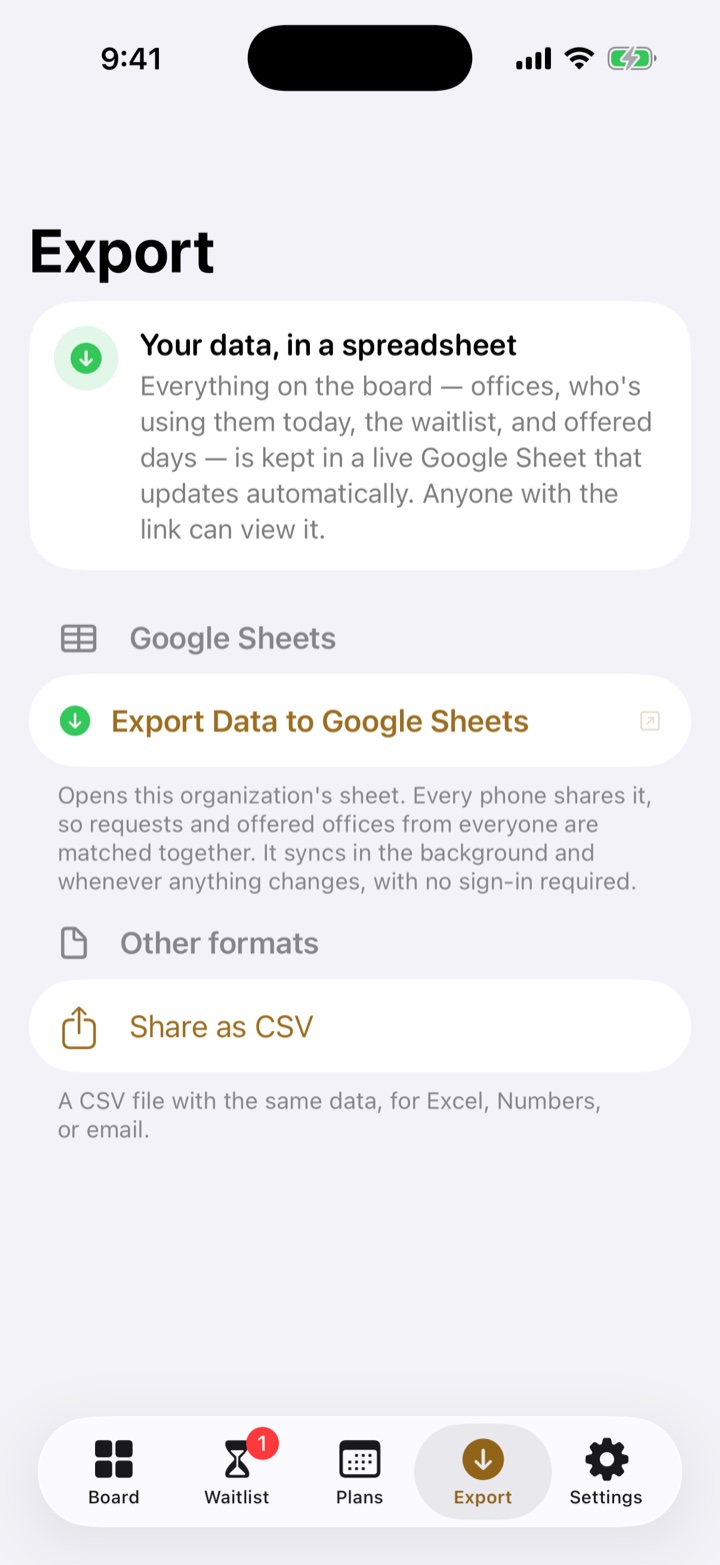
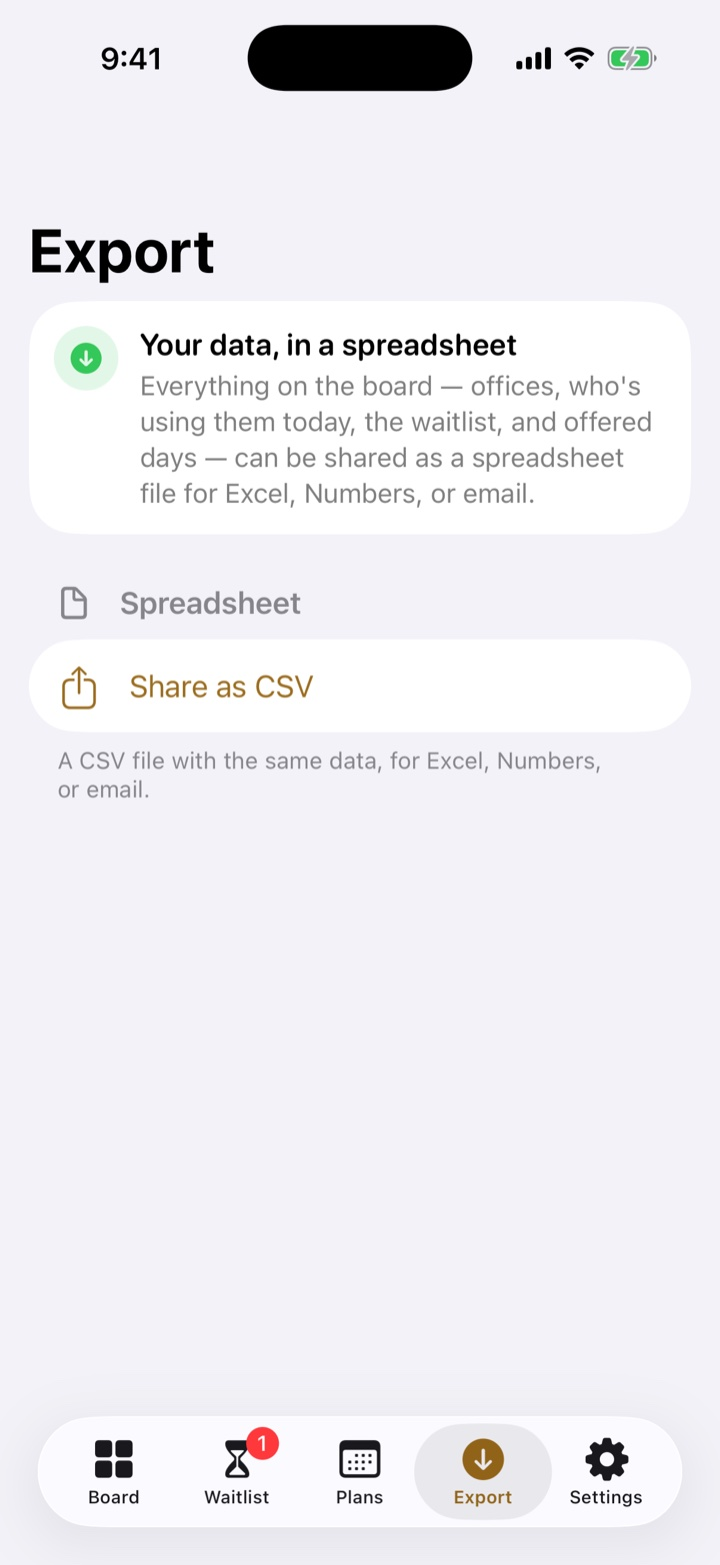
Describe Firebase sync: instant updates, access-code privacy, CSV export

diff --git a/index.html b/index.html
@@ -63,7 +63,7 @@
 </section>
 
 <section class="activity" aria-label="Things OfficeSwap takes care of">
-  <div class="lane " aria-hidden="true"><div class="chip"><div class="ic green"><svg viewBox="0 0 24 24" fill="none" stroke="currentColor" stroke-width="1.9" stroke-linecap="round" stroke-linejoin="round"><path d="M5 12.5l4.2 4.2L19 7"/></svg></div><div><b>Office assigned</b><span>Priya Shah's office, Mon to Tue</span></div><i style="--p:100%"></i></div><div class="chip"><div class="ic amber"><svg viewBox="0 0 24 24" fill="none" stroke="currentColor" stroke-width="1.9" stroke-linecap="round" stroke-linejoin="round"><circle cx="8" cy="15" r="4"/><path d="M11 12l8-8M16 7l2 2M14 9l2 2"/></svg></div><div><b>Office offered</b><span>Marcus Chen away Wed to Fri</span></div><i style="--p:100%"></i></div><div class="chip"><div class="ic blue"><svg viewBox="0 0 24 24" fill="none" stroke="currentColor" stroke-width="1.9" stroke-linecap="round" stroke-linejoin="round"><circle cx="10" cy="8" r="3.4"/><path d="M4 20c1-3.3 3.5-5 6-5 1.3 0 2.5.4 3.5 1.1M18 14v6M15 17h6"/></svg></div><div><b>Request received</b><span>Ben Adler, 3 days</span></div><i style="--p:64%"></i></div><div class="chip"><div class="ic purple"><svg viewBox="0 0 24 24" fill="none" stroke="currentColor" stroke-width="1.9" stroke-linecap="round" stroke-linejoin="round"><path d="M7 3h10M7 21h10M8 3c0 5 8 5 8 9s-8 4-8 9M16 3c0 5-8 5-8 9"/></svg></div><div><b>Next in line</b><span>Grace gets Thursday</span></div><i style="--p:38%"></i></div><div class="chip"><div class="ic green"><svg viewBox="0 0 24 24" fill="none" stroke="currentColor" stroke-width="1.9" stroke-linecap="round" stroke-linejoin="round"><rect x="4" y="5" width="16" height="14" rx="2.5"/><path d="M4 10h16M4 14.5h16M10 5v14"/></svg></div><div><b>Sheet updated</b><span>Synced just now</span></div><i style="--p:100%"></i></div><div class="chip"><div class="ic gray"><svg viewBox="0 0 24 24" fill="none" stroke="currentColor" stroke-width="1.9" stroke-linecap="round" stroke-linejoin="round"><path d="M3 10h18M5 10v10M19 10v10M5 15h14"/><rect x="8" y="4" width="8" height="6" rx="1"/></svg></div><div><b>Guest desk booked</b><span>Hot desk 2, Thursday</span></div><i style="--p:100%"></i></div><div class="chip"><div class="ic green"><svg viewBox="0 0 24 24" fill="none" stroke="currentColor" stroke-width="1.9" stroke-linecap="round" stroke-linejoin="round"><path d="M5 12.5l4.2 4.2L19 7"/></svg></div><div><b>Office assigned</b><span>Priya Shah's office, Mon to Tue</span></div><i style="--p:100%"></i></div><div class="chip"><div class="ic amber"><svg viewBox="0 0 24 24" fill="none" stroke="currentColor" stroke-width="1.9" stroke-linecap="round" stroke-linejoin="round"><circle cx="8" cy="15" r="4"/><path d="M11 12l8-8M16 7l2 2M14 9l2 2"/></svg></div><div><b>Office offered</b><span>Marcus Chen away Wed to Fri</span></div><i style="--p:100%"></i></div><div class="chip"><div class="ic blue"><svg viewBox="0 0 24 24" fill="none" stroke="currentColor" stroke-width="1.9" stroke-linecap="round" stroke-linejoin="round"><circle cx="10" cy="8" r="3.4"/><path d="M4 20c1-3.3 3.5-5 6-5 1.3 0 2.5.4 3.5 1.1M18 14v6M15 17h6"/></svg></div><div><b>Request received</b><span>Ben Adler, 3 days</span></div><i style="--p:64%"></i></div><div class="chip"><div class="ic purple"><svg viewBox="0 0 24 24" fill="none" stroke="currentColor" stroke-width="1.9" stroke-linecap="round" stroke-linejoin="round"><path d="M7 3h10M7 21h10M8 3c0 5 8 5 8 9s-8 4-8 9M16 3c0 5-8 5-8 9"/></svg></div><div><b>Next in line</b><span>Grace gets Thursday</span></div><i style="--p:38%"></i></div><div class="chip"><div class="ic green"><svg viewBox="0 0 24 24" fill="none" stroke="currentColor" stroke-width="1.9" stroke-linecap="round" stroke-linejoin="round"><rect x="4" y="5" width="16" height="14" rx="2.5"/><path d="M4 10h16M4 14.5h16M10 5v14"/></svg></div><div><b>Sheet updated</b><span>Synced just now</span></div><i style="--p:100%"></i></div><div class="chip"><div class="ic gray"><svg viewBox="0 0 24 24" fill="none" stroke="currentColor" stroke-width="1.9" stroke-linecap="round" stroke-linejoin="round"><path d="M3 10h18M5 10v10M19 10v10M5 15h14"/><rect x="8" y="4" width="8" height="6" rx="1"/></svg></div><div><b>Guest desk booked</b><span>Hot desk 2, Thursday</span></div><i style="--p:100%"></i></div></div>
+  <div class="lane " aria-hidden="true"><div class="chip"><div class="ic green"><svg viewBox="0 0 24 24" fill="none" stroke="currentColor" stroke-width="1.9" stroke-linecap="round" stroke-linejoin="round"><path d="M5 12.5l4.2 4.2L19 7"/></svg></div><div><b>Office assigned</b><span>Priya Shah's office, Mon to Tue</span></div><i style="--p:100%"></i></div><div class="chip"><div class="ic amber"><svg viewBox="0 0 24 24" fill="none" stroke="currentColor" stroke-width="1.9" stroke-linecap="round" stroke-linejoin="round"><circle cx="8" cy="15" r="4"/><path d="M11 12l8-8M16 7l2 2M14 9l2 2"/></svg></div><div><b>Office offered</b><span>Marcus Chen away Wed to Fri</span></div><i style="--p:100%"></i></div><div class="chip"><div class="ic blue"><svg viewBox="0 0 24 24" fill="none" stroke="currentColor" stroke-width="1.9" stroke-linecap="round" stroke-linejoin="round"><circle cx="10" cy="8" r="3.4"/><path d="M4 20c1-3.3 3.5-5 6-5 1.3 0 2.5.4 3.5 1.1M18 14v6M15 17h6"/></svg></div><div><b>Request received</b><span>Ben Adler, 3 days</span></div><i style="--p:64%"></i></div><div class="chip"><div class="ic purple"><svg viewBox="0 0 24 24" fill="none" stroke="currentColor" stroke-width="1.9" stroke-linecap="round" stroke-linejoin="round"><path d="M7 3h10M7 21h10M8 3c0 5 8 5 8 9s-8 4-8 9M16 3c0 5-8 5-8 9"/></svg></div><div><b>Next in line</b><span>Grace gets Thursday</span></div><i style="--p:38%"></i></div><div class="chip"><div class="ic green"><svg viewBox="0 0 24 24" fill="none" stroke="currentColor" stroke-width="1.9" stroke-linecap="round" stroke-linejoin="round"><rect x="4" y="5" width="16" height="14" rx="2.5"/><path d="M4 10h16M4 14.5h16M10 5v14"/></svg></div><div><b>Everyone updated</b><span>Synced instantly</span></div><i style="--p:100%"></i></div><div class="chip"><div class="ic gray"><svg viewBox="0 0 24 24" fill="none" stroke="currentColor" stroke-width="1.9" stroke-linecap="round" stroke-linejoin="round"><path d="M3 10h18M5 10v10M19 10v10M5 15h14"/><rect x="8" y="4" width="8" height="6" rx="1"/></svg></div><div><b>Guest desk booked</b><span>Hot desk 2, Thursday</span></div><i style="--p:100%"></i></div><div class="chip"><div class="ic green"><svg viewBox="0 0 24 24" fill="none" stroke="currentColor" stroke-width="1.9" stroke-linecap="round" stroke-linejoin="round"><path d="M5 12.5l4.2 4.2L19 7"/></svg></div><div><b>Office assigned</b><span>Priya Shah's office, Mon to Tue</span></div><i style="--p:100%"></i></div><div class="chip"><div class="ic amber"><svg viewBox="0 0 24 24" fill="none" stroke="currentColor" stroke-width="1.9" stroke-linecap="round" stroke-linejoin="round"><circle cx="8" cy="15" r="4"/><path d="M11 12l8-8M16 7l2 2M14 9l2 2"/></svg></div><div><b>Office offered</b><span>Marcus Chen away Wed to Fri</span></div><i style="--p:100%"></i></div><div class="chip"><div class="ic blue"><svg viewBox="0 0 24 24" fill="none" stroke="currentColor" stroke-width="1.9" stroke-linecap="round" stroke-linejoin="round"><circle cx="10" cy="8" r="3.4"/><path d="M4 20c1-3.3 3.5-5 6-5 1.3 0 2.5.4 3.5 1.1M18 14v6M15 17h6"/></svg></div><div><b>Request received</b><span>Ben Adler, 3 days</span></div><i style="--p:64%"></i></div><div class="chip"><div class="ic purple"><svg viewBox="0 0 24 24" fill="none" stroke="currentColor" stroke-width="1.9" stroke-linecap="round" stroke-linejoin="round"><path d="M7 3h10M7 21h10M8 3c0 5 8 5 8 9s-8 4-8 9M16 3c0 5-8 5-8 9"/></svg></div><div><b>Next in line</b><span>Grace gets Thursday</span></div><i style="--p:38%"></i></div><div class="chip"><div class="ic green"><svg viewBox="0 0 24 24" fill="none" stroke="currentColor" stroke-width="1.9" stroke-linecap="round" stroke-linejoin="round"><rect x="4" y="5" width="16" height="14" rx="2.5"/><path d="M4 10h16M4 14.5h16M10 5v14"/></svg></div><div><b>Everyone updated</b><span>Synced instantly</span></div><i style="--p:100%"></i></div><div class="chip"><div class="ic gray"><svg viewBox="0 0 24 24" fill="none" stroke="currentColor" stroke-width="1.9" stroke-linecap="round" stroke-linejoin="round"><path d="M3 10h18M5 10v10M19 10v10M5 15h14"/><rect x="8" y="4" width="8" height="6" rx="1"/></svg></div><div><b>Guest desk booked</b><span>Hot desk 2, Thursday</span></div><i style="--p:100%"></i></div></div>
   <div class="lane rev" aria-hidden="true"><div class="chip"><div class="ic blue"><svg viewBox="0 0 24 24" fill="none" stroke="currentColor" stroke-width="1.9" stroke-linecap="round" stroke-linejoin="round"><path d="M6 20V4h10v16M4 20h16"/><circle cx="13" cy="12" r=".6" fill="currentColor"/></svg></div><div><b>Same office all week</b><span>No moving desks</span></div><i style="--p:100%"></i></div><div class="chip"><div class="ic pink"><svg viewBox="0 0 24 24" fill="none" stroke="currentColor" stroke-width="1.9" stroke-linecap="round" stroke-linejoin="round"><path d="M9 7L5 11l4 4"/><path d="M5 11h9a5 5 0 010 10h-2"/></svg></div><div><b>Offer withdrawn</b><span>Omar back in line at #1</span></div><i style="--p:52%"></i></div><div class="chip"><div class="ic amber"><svg viewBox="0 0 24 24" fill="none" stroke="currentColor" stroke-width="1.9" stroke-linecap="round" stroke-linejoin="round"><path d="M6 4h9l3 3v13H6z"/><path d="M9 11h6M9 15h4"/></svg></div><div><b>Note left</b><span>Monitor cable is in the top drawer</span></div><i style="--p:100%"></i></div><div class="chip"><div class="ic green"><svg viewBox="0 0 24 24" fill="none" stroke="currentColor" stroke-width="1.9" stroke-linecap="round" stroke-linejoin="round"><path d="M5 12.5l4.2 4.2L19 7"/></svg></div><div><b>Waitlist cleared</b><span>Everyone has an office</span></div><i style="--p:100%"></i></div><div class="chip"><div class="ic purple"><svg viewBox="0 0 24 24" fill="none" stroke="currentColor" stroke-width="1.9" stroke-linecap="round" stroke-linejoin="round"><rect x="4" y="5" width="16" height="15" rx="3"/><path d="M4 10h16M9 3v4M15 3v4"/></svg></div><div><b>Week planned</b><span>5 visitors, 0 waiting</span></div><i style="--p:86%"></i></div><div class="chip"><div class="ic gray"><svg viewBox="0 0 24 24" fill="none" stroke="currentColor" stroke-width="1.9" stroke-linecap="round" stroke-linejoin="round"><rect x="5" y="3" width="10" height="18" rx="1.5"/><path d="M15 9h4v12h-4M8 7h1M11 7h1M8 11h1M11 11h1M8 15h1M11 15h1"/></svg></div><div><b>Office added</b><span>14 offices on the board</span></div><i style="--p:100%"></i></div><div class="chip"><div class="ic blue"><svg viewBox="0 0 24 24" fill="none" stroke="currentColor" stroke-width="1.9" stroke-linecap="round" stroke-linejoin="round"><path d="M6 20V4h10v16M4 20h16"/><circle cx="13" cy="12" r=".6" fill="currentColor"/></svg></div><div><b>Same office all week</b><span>No moving desks</span></div><i style="--p:100%"></i></div><div class="chip"><div class="ic pink"><svg viewBox="0 0 24 24" fill="none" stroke="currentColor" stroke-width="1.9" stroke-linecap="round" stroke-linejoin="round"><path d="M9 7L5 11l4 4"/><path d="M5 11h9a5 5 0 010 10h-2"/></svg></div><div><b>Offer withdrawn</b><span>Omar back in line at #1</span></div><i style="--p:52%"></i></div><div class="chip"><div class="ic amber"><svg viewBox="0 0 24 24" fill="none" stroke="currentColor" stroke-width="1.9" stroke-linecap="round" stroke-linejoin="round"><path d="M6 4h9l3 3v13H6z"/><path d="M9 11h6M9 15h4"/></svg></div><div><b>Note left</b><span>Monitor cable is in the top drawer</span></div><i style="--p:100%"></i></div><div class="chip"><div class="ic green"><svg viewBox="0 0 24 24" fill="none" stroke="currentColor" stroke-width="1.9" stroke-linecap="round" stroke-linejoin="round"><path d="M5 12.5l4.2 4.2L19 7"/></svg></div><div><b>Waitlist cleared</b><span>Everyone has an office</span></div><i style="--p:100%"></i></div><div class="chip"><div class="ic purple"><svg viewBox="0 0 24 24" fill="none" stroke="currentColor" stroke-width="1.9" stroke-linecap="round" stroke-linejoin="round"><rect x="4" y="5" width="16" height="15" rx="3"/><path d="M4 10h16M9 3v4M15 3v4"/></svg></div><div><b>Week planned</b><span>5 visitors, 0 waiting</span></div><i style="--p:86%"></i></div><div class="chip"><div class="ic gray"><svg viewBox="0 0 24 24" fill="none" stroke="currentColor" stroke-width="1.9" stroke-linecap="round" stroke-linejoin="round"><rect x="5" y="3" width="10" height="18" rx="1.5"/><path d="M15 9h4v12h-4M8 7h1M11 7h1M8 11h1M11 11h1M8 15h1M11 15h1"/></svg></div><div><b>Office added</b><span>14 offices on the board</span></div><i style="--p:100%"></i></div></div>
   <div class="lane slow" aria-hidden="true"><div class="chip"><div class="ic green"><svg viewBox="0 0 24 24" fill="none" stroke="currentColor" stroke-width="1.9" stroke-linecap="round" stroke-linejoin="round"><circle cx="9" cy="8" r="3.2"/><path d="M3 20c.9-3.2 3.3-4.8 6-4.8s5.1 1.6 6 4.8"/><circle cx="17" cy="9" r="2.6"/><path d="M16.5 14.4c2.2.2 3.8 1.6 4.5 4.1"/></svg></div><div><b>Team joined</b><span>One access code, no sign-ups</span></div><i style="--p:100%"></i></div><div class="chip"><div class="ic pink"><svg viewBox="0 0 24 24" fill="none" stroke="currentColor" stroke-width="1.9" stroke-linecap="round" stroke-linejoin="round"><path d="M4 7h16M9 7V4h6v3M6 7l1 13h10l1-13"/></svg></div><div><b>Request cancelled</b><span>Friday freed for the next person</span></div><i style="--p:100%"></i></div><div class="chip"><div class="ic blue"><svg viewBox="0 0 24 24" fill="none" stroke="currentColor" stroke-width="1.9" stroke-linecap="round" stroke-linejoin="round"><path d="M12 21s-6-5.4-6-11a6 6 0 0112 0c0 5.6-6 11-6 11z"/><circle cx="12" cy="10" r="2.2"/></svg></div><div><b>Location filter</b><span>New York</span></div><i style="--p:100%"></i></div><div class="chip"><div class="ic amber"><svg viewBox="0 0 24 24" fill="none" stroke="currentColor" stroke-width="1.9" stroke-linecap="round" stroke-linejoin="round"><rect x="4" y="5" width="16" height="14" rx="2.5"/><path d="M4 10h16M4 14.5h16M10 5v14"/></svg></div><div><b>CSV exported</b><span>Ready for Excel</span></div><i style="--p:100%"></i></div><div class="chip"><div class="ic purple"><svg viewBox="0 0 24 24" fill="none" stroke="currentColor" stroke-width="1.9" stroke-linecap="round" stroke-linejoin="round"><path d="M20 12a8 8 0 01-14.3 4.9M4 12a8 8 0 0114.3-4.9"/><path d="M18.5 3v4.2h-4.2M5.5 21v-4.2h4.2"/></svg></div><div><b>Every phone in sync</b><span>Same schedule for everyone</span></div><i style="--p:72%"></i></div><div class="chip"><div class="ic green"><svg viewBox="0 0 24 24" fill="none" stroke="currentColor" stroke-width="1.9" stroke-linecap="round" stroke-linejoin="round"><path d="M5 12.5l4.2 4.2L19 7"/></svg></div><div><b>Office assigned</b><span>Elena Rossi's office, Monday</span></div><i style="--p:100%"></i></div><div class="chip"><div class="ic green"><svg viewBox="0 0 24 24" fill="none" stroke="currentColor" stroke-width="1.9" stroke-linecap="round" stroke-linejoin="round"><circle cx="9" cy="8" r="3.2"/><path d="M3 20c.9-3.2 3.3-4.8 6-4.8s5.1 1.6 6 4.8"/><circle cx="17" cy="9" r="2.6"/><path d="M16.5 14.4c2.2.2 3.8 1.6 4.5 4.1"/></svg></div><div><b>Team joined</b><span>One access code, no sign-ups</span></div><i style="--p:100%"></i></div><div class="chip"><div class="ic pink"><svg viewBox="0 0 24 24" fill="none" stroke="currentColor" stroke-width="1.9" stroke-linecap="round" stroke-linejoin="round"><path d="M4 7h16M9 7V4h6v3M6 7l1 13h10l1-13"/></svg></div><div><b>Request cancelled</b><span>Friday freed for the next person</span></div><i style="--p:100%"></i></div><div class="chip"><div class="ic blue"><svg viewBox="0 0 24 24" fill="none" stroke="currentColor" stroke-width="1.9" stroke-linecap="round" stroke-linejoin="round"><path d="M12 21s-6-5.4-6-11a6 6 0 0112 0c0 5.6-6 11-6 11z"/><circle cx="12" cy="10" r="2.2"/></svg></div><div><b>Location filter</b><span>New York</span></div><i style="--p:100%"></i></div><div class="chip"><div class="ic amber"><svg viewBox="0 0 24 24" fill="none" stroke="currentColor" stroke-width="1.9" stroke-linecap="round" stroke-linejoin="round"><rect x="4" y="5" width="16" height="14" rx="2.5"/><path d="M4 10h16M4 14.5h16M10 5v14"/></svg></div><div><b>CSV exported</b><span>Ready for Excel</span></div><i style="--p:100%"></i></div><div class="chip"><div class="ic purple"><svg viewBox="0 0 24 24" fill="none" stroke="currentColor" stroke-width="1.9" stroke-linecap="round" stroke-linejoin="round"><path d="M20 12a8 8 0 01-14.3 4.9M4 12a8 8 0 0114.3-4.9"/><path d="M18.5 3v4.2h-4.2M5.5 21v-4.2h4.2"/></svg></div><div><b>Every phone in sync</b><span>Same schedule for everyone</span></div><i style="--p:72%"></i></div><div class="chip"><div class="ic green"><svg viewBox="0 0 24 24" fill="none" stroke="currentColor" stroke-width="1.9" stroke-linecap="round" stroke-linejoin="round"><path d="M5 12.5l4.2 4.2L19 7"/></svg></div><div><b>Office assigned</b><span>Elena Rossi's office, Monday</span></div><i style="--p:100%"></i></div></div>
 </section>
@@ -103,7 +103,7 @@
           <img class="on" src="images/board.jpg?v=3" alt="Board tab" width="720" height="1565">
           <img src="images/waitlist.jpg" alt="Waitlist tab" width="720" height="1565" loading="lazy">
           <img src="images/plans.jpg" alt="Plans tab" width="720" height="1565" loading="lazy">
-          <img src="images/export.jpg" alt="Export tab" width="720" height="1565" loading="lazy">
+          <img src="images/export.jpg?v=2" alt="Export tab" width="720" height="1565" loading="lazy">
           <img src="images/settings.jpg" alt="Settings tab" width="720" height="1565" loading="lazy">
           <img src="images/flow-request-form.jpg" alt="Request an Office form, filled in" width="720" height="1565" loading="lazy">
           <img src="images/flow-request-done.jpg" alt="You have an office confirmation" width="720" height="1565" loading="lazy">
@@ -122,7 +122,7 @@
 <section class="band" id="details">
   <div class="container">
     <h2 class="h2 center reveal">Every detail, <em>considered.</em></h2>
-    <div class="panel"><div class="grid3"><div class="tile reveal"><div class="ic green"><svg viewBox="0 0 24 24" fill="none" stroke="currentColor" stroke-width="1.9" stroke-linecap="round" stroke-linejoin="round"><path d="M5 12.5l4.2 4.2L19 7"/></svg></div><h3>First come, first served</h3><p>The earliest request always gets the next open office. No favorites, no politics.</p></div><div class="tile reveal"><div class="ic blue"><svg viewBox="0 0 24 24" fill="none" stroke="currentColor" stroke-width="1.9" stroke-linecap="round" stroke-linejoin="round"><path d="M6 20V4h10v16M4 20h16"/><circle cx="13" cy="12" r=".6" fill="currentColor"/></svg></div><h3>Fewer moves</h3><p>Need several days? You stay in as few different offices as possible.</p></div><div class="tile reveal"><div class="ic amber"><svg viewBox="0 0 24 24" fill="none" stroke="currentColor" stroke-width="1.9" stroke-linecap="round" stroke-linejoin="round"><rect x="4" y="10" width="16" height="10" rx="2.5"/><path d="M8 10V7a4 4 0 018 0v3"/></svg></div><h3>No accounts</h3><p>No sign-ups and no passwords. Your team joins with one access code.</p></div><div class="tile reveal"><div class="ic purple"><svg viewBox="0 0 24 24" fill="none" stroke="currentColor" stroke-width="1.9" stroke-linecap="round" stroke-linejoin="round"><path d="M6 4h9l3 3v13H6z"/><path d="M9 11h6M9 15h4"/></svg></div><h3>Notes for the next person</h3><p>Leave a line about the monitor cable or the thermostat when you offer your office.</p></div><div class="tile reveal"><div class="ic pink"><svg viewBox="0 0 24 24" fill="none" stroke="currentColor" stroke-width="1.9" stroke-linecap="round" stroke-linejoin="round"><path d="M12 21s-6-5.4-6-11a6 6 0 0112 0c0 5.6-6 11-6 11z"/><circle cx="12" cy="10" r="2.2"/></svg></div><h3>Several locations</h3><p>Running more than one site? Filter the board by location.</p></div><div class="tile reveal"><div class="ic gray"><svg viewBox="0 0 24 24" fill="none" stroke="currentColor" stroke-width="1.9" stroke-linecap="round" stroke-linejoin="round"><rect x="4" y="5" width="16" height="14" rx="2.5"/><path d="M4 10h16M4 14.5h16M10 5v14"/></svg></div><h3>Live spreadsheet</h3><p>The schedule mirrors to a Google Sheet and exports to CSV for Excel or Numbers.</p></div></div></div>
+    <div class="panel"><div class="grid3"><div class="tile reveal"><div class="ic green"><svg viewBox="0 0 24 24" fill="none" stroke="currentColor" stroke-width="1.9" stroke-linecap="round" stroke-linejoin="round"><path d="M5 12.5l4.2 4.2L19 7"/></svg></div><h3>First come, first served</h3><p>The earliest request always gets the next open office. No favorites, no politics.</p></div><div class="tile reveal"><div class="ic blue"><svg viewBox="0 0 24 24" fill="none" stroke="currentColor" stroke-width="1.9" stroke-linecap="round" stroke-linejoin="round"><path d="M6 20V4h10v16M4 20h16"/><circle cx="13" cy="12" r=".6" fill="currentColor"/></svg></div><h3>Fewer moves</h3><p>Need several days? You stay in as few different offices as possible.</p></div><div class="tile reveal"><div class="ic amber"><svg viewBox="0 0 24 24" fill="none" stroke="currentColor" stroke-width="1.9" stroke-linecap="round" stroke-linejoin="round"><rect x="4" y="10" width="16" height="10" rx="2.5"/><path d="M8 10V7a4 4 0 018 0v3"/></svg></div><h3>No accounts</h3><p>No sign-ups and no passwords. Your team joins with one access code.</p></div><div class="tile reveal"><div class="ic purple"><svg viewBox="0 0 24 24" fill="none" stroke="currentColor" stroke-width="1.9" stroke-linecap="round" stroke-linejoin="round"><path d="M6 4h9l3 3v13H6z"/><path d="M9 11h6M9 15h4"/></svg></div><h3>Notes for the next person</h3><p>Leave a line about the monitor cable or the thermostat when you offer your office.</p></div><div class="tile reveal"><div class="ic pink"><svg viewBox="0 0 24 24" fill="none" stroke="currentColor" stroke-width="1.9" stroke-linecap="round" stroke-linejoin="round"><path d="M12 21s-6-5.4-6-11a6 6 0 0112 0c0 5.6-6 11-6 11z"/><circle cx="12" cy="10" r="2.2"/></svg></div><h3>Several locations</h3><p>Running more than one site? Filter the board by location.</p></div><div class="tile reveal"><div class="ic gray"><svg viewBox="0 0 24 24" fill="none" stroke="currentColor" stroke-width="1.9" stroke-linecap="round" stroke-linejoin="round"><rect x="4" y="5" width="16" height="14" rx="2.5"/><path d="M4 10h16M4 14.5h16M10 5v14"/></svg></div><h3>Spreadsheet export</h3><p>Share the whole schedule as a CSV file for Excel, Numbers or Google Sheets.</p></div></div></div>
   </div>
 </section>
 
@@ -155,7 +155,7 @@
     <div class="bento">
       <div class="bt reveal" style="grid-area:a">
         <div class="ic-sync"><svg viewBox="0 0 24 24" fill="none" stroke="currentColor" stroke-width="1.8" stroke-linecap="round" stroke-linejoin="round" aria-hidden="true"><path d="M20 12a8 8 0 01-14.3 4.9M4 12a8 8 0 0114.3-4.9"/><path d="M18.5 3v4.2h-4.2M5.5 21v-4.2h4.2"/></svg></div>
-        <h3>30 seconds</h3><p>Every open phone catches up.</p>
+        <h3>Instant</h3><p>Every phone updates the moment anything changes.</p>
       </div>
       <div class="bt reveal" style="grid-area:b">
         <div class="ic-one">1</div>
@@ -165,8 +165,8 @@
         <div class="iphone"><img src="images/plans.jpg" alt="The Plans tab in OfficeSwap" width="720" height="1565" loading="lazy"></div>
       </div>
       <div class="bt reveal" style="grid-area:d">
-        <div class="ic-sheet"><svg viewBox="0 0 24 24" fill="none" stroke="currentColor" stroke-width="1.8" stroke-linecap="round" stroke-linejoin="round" aria-hidden="true"><rect x="3.5" y="4.5" width="17" height="15" rx="2.5"/><path d="M3.5 9.5h17M3.5 14.5h17M9.5 4.5v15"/></svg></div>
-        <h3>Live Google Sheet</h3><p>Mirrors every change.</p>
+        <div class="ic-sheet"><svg viewBox="0 0 24 24" fill="none" stroke="currentColor" stroke-width="1.8" stroke-linecap="round" stroke-linejoin="round" aria-hidden="true"><rect x="5" y="10.5" width="14" height="10" rx="2.5"/><path d="M8 10.5V8a4 4 0 018 0v2.5"/></svg></div>
+        <h3>Private to your team</h3><p>Only people with your access code can see it.</p>
       </div>
       <div class="bt reveal" style="grid-area:e">
         <div class="bars" aria-hidden="true"><i></i><i></i><i></i><i></i><i></i><i></i><i></i><i></i><i></i></div>
@@ -184,7 +184,7 @@
 <section class="band" id="works-with">
   <div class="container">
     <h2 class="h2 center reveal">Your schedule, <em>everywhere.</em></h2>
-    <p class="lede reveal">The schedule lives in a Google Sheet, and the Export tab sends it anywhere your iPhone can share a file.</p>
+    <p class="lede reveal">The Export tab turns the schedule into a spreadsheet file and sends it anywhere your iPhone can share one.</p>
     <div class="orbs reveal">
       <div class="orb"><span><i class="app"><img src="images/logos/google-sheets.svg" alt="" width="40" height="40"></i></span><em>Google Sheets</em></div>
       <div class="orb"><span><i class="app"><img src="images/logos/excel.svg" alt="" width="40" height="40"></i></span><em>Excel</em></div>
@@ -229,7 +229,7 @@
 <section class="band" id="faq">
   <div class="container">
     <h2 class="h2 center reveal">Questions? <em>Answered.</em></h2>
-    <div class="qa-list"><details class="q reveal"><summary>How do I get an office?</summary><p>On the Board, tap Request an Office, choose your name and pick the days you'll be in. If an office is free on those days, it's assigned to you right away.</p></details><details class="q reveal"><summary>What happens if nothing is free?</summary><p>You join the waitlist. As soon as someone offers an office on one of your days, it's assigned to you automatically. No need to check back.</p></details><details class="q reveal"><summary>Do I lose my office when I offer it?</summary><p>No. It's only shared on the days you pick. You keep it on every other day.</p></details><details class="q reveal"><summary>Who gets an office first?</summary><p>First come, first served. The earliest request always gets the next open office.</p></details><details class="q reveal"><summary>Do we need accounts or passwords?</summary><p>No. Everyone joins with your organization's access code.</p></details><details class="q reveal"><summary>Who can see our schedule?</summary><p>Anyone with your organization's access code can see and change it. The schedule is also kept in a Google Sheet that anyone with its link can view, so keep both private.</p></details></div>
+    <div class="qa-list"><details class="q reveal"><summary>How do I get an office?</summary><p>On the Board, tap Request an Office, choose your name and pick the days you'll be in. If an office is free on those days, it's assigned to you right away.</p></details><details class="q reveal"><summary>What happens if nothing is free?</summary><p>You join the waitlist. As soon as someone offers an office on one of your days, it's assigned to you automatically. No need to check back.</p></details><details class="q reveal"><summary>Do I lose my office when I offer it?</summary><p>No. It's only shared on the days you pick. You keep it on every other day.</p></details><details class="q reveal"><summary>Who gets an office first?</summary><p>First come, first served. The earliest request always gets the next open office.</p></details><details class="q reveal"><summary>Do we need accounts or passwords?</summary><p>No. Everyone joins with your organization's access code.</p></details><details class="q reveal"><summary>Who can see our schedule?</summary><p>Only people with your organization's access code. They can see and change it in the app, so keep the code private.</p></details></div>
     <a class="see-all" href="faq/">See all questions &rarr;</a>
   </div>
 </section>

diff --git a/privacy/index.html b/privacy/index.html
@@ -43,14 +43,14 @@
 <div class="wrap">
 <main>
 <h1>Privacy Policy</h1>
-<p class="meta">Effective September 27, 2026</p>
+<p class="meta">Effective September 28, 2026</p>
 
 <div class="summary">
   <p><strong>The short version</strong></p>
   <ul>
     <li>OfficeSwap has no user accounts. It doesn't ask for your email, phone number, location, contacts or photos.</li>
     <li>It stores the office schedule your organization enters: people's names, offices, office addresses, dates and optional notes.</li>
-    <li>That schedule is kept in a Google Sheet so everyone in your organization sees the same data. <strong>Anyone who has the sheet's link can view it.</strong></li>
+    <li>That schedule is stored securely online with Google's Firebase so everyone in your organization sees the same data. <strong>Only people with your organization's access code can see it.</strong></li>
     <li>There are no ads, no analytics and no tracking. We don't sell your information.</li>
   </ul>
 </div>
@@ -74,23 +74,22 @@
   <li>to show which offices are open, in use, or occupied by their owner on each day;</li>
   <li>to match office requests to offered offices automatically;</li>
   <li>to keep a waitlist of requests that haven't been matched yet;</li>
-  <li>to keep a readable copy of the schedule in your organization's Google Sheet.</li>
+  <li>to keep everyone's phones showing the same, up-to-date schedule.</li>
 </ul>
 <p>We don't use it for advertising or profiling, and we don't sell or rent it to anyone.</p>
 
 <h2>Where the information is stored</h2>
 <h3>On your iPhone</h3>
 <p>The app keeps a copy of your organization's schedule on your device. It also keeps the organizations you have signed in to, their access codes and addresses, and a spreadsheet (CSV) file of the schedule that you can choose to share. This data stays on your device unless you share it. Deleting the app removes it.</p>
-<h3>In Google Sheets</h3>
-<p>So that everyone in an organization sees the same schedule, the app saves the schedule to a Google Sheet held in a Google account controlled by the app's developer. The app connects to Google Sheets and Google Drive automatically. You don't sign in to Google, and the app never sees your own Google account.</p>
-<p>The sheet is set so that <strong>anyone with its link can view it</strong>. The app shows the link in its Export tab. Anyone you give the link to, or who otherwise gets it, can see the names, offices, addresses, dates and notes it contains.</p>
-<p>Google processes this data under its own terms and the <a href="https://policies.google.com/privacy" rel="noopener">Google Privacy Policy</a>.</p>
+<h3>Online, with Firebase</h3>
+<p>So that everyone in an organization sees the same schedule, the app stores each organization's name, office address and schedule with Firebase, a service from Google, under that organization's access code. The app can read an organization's data only if it knows that exact code. Organizations can't be listed or searched.</p>
+<p>To connect securely, the app signs in to Firebase anonymously. This creates a random identifier for the app on your device. It isn't linked to your name, email or phone number, and you don't sign in to anything yourself. As part of providing the service, Google also processes technical information such as IP addresses.</p>
+<p>Google processes this data under its own terms, the <a href="https://firebase.google.com/support/privacy" rel="noopener">Firebase privacy information</a> and the <a href="https://policies.google.com/privacy" rel="noopener">Google Privacy Policy</a>.</p>
 
 <h2>Who can see the information</h2>
 <ul>
   <li><strong>People in your organization:</strong> anyone who opens the app with your organization's access code sees its full schedule, including names and notes.</li>
-  <li><strong>Anyone with the sheet's link:</strong> as described above.</li>
-  <li><strong>Service providers:</strong> Google stores the shared schedule. Apple distributes the app under its own terms.</li>
+    <li><strong>Service providers:</strong> Google stores the shared schedule through Firebase. Apple distributes the app under its own terms.</li>
   <li><strong>When required by law:</strong> we may disclose information if we must do so to comply with the law or a valid legal request, or to protect the rights and safety of people using the app.</li>
 </ul>
 <p>We don't share the information with anyone else.</p>
@@ -99,7 +98,7 @@
 <p>Information is kept until it's removed. People can cancel their own requests and offers in the app. The app's Reset data option clears and replaces an organization's shared schedule for everyone. Past entries may stay in the shared schedule until they're removed or reset. To ask us to delete an organization's shared data, contact us as described below.</p>
 
 <h2>Security</h2>
-<p>Data travels between the app and Google over encrypted connections. An access code is a simple way to open an organization's schedule, not a password, and anyone who knows it can see that schedule. Keep your organization's access code and sheet link private. No system is perfectly secure, and we can't guarantee the security of information you enter.</p>
+<p>Data travels between the app and Firebase over encrypted connections and is encrypted where Google stores it. Security rules let the app open an organization only with its exact access code, and never list organizations. An access code works like a shared key rather than a personal password, and anyone who knows it can see and change that organization's schedule, so keep it private. No system is perfectly secure, and we can't guarantee the security of information you enter.</p>
 
 <h2>Your choices and rights</h2>
 <p>You can view, change or cancel your own requests and offers in the app at any time. You can also contact us to ask for a copy of information about you, or to ask us to correct or delete it. Depending on where you live, such as California or the European Economic Area, you may have additional rights under local law. We will respond to requests as those laws require.</p>

diff --git a/terms/index.html b/terms/index.html
@@ -43,7 +43,7 @@
 <div class="wrap">
 <main>
 <h1>Terms of Service</h1>
-<p class="meta">Effective September 27, 2026</p>
+<p class="meta">Effective September 28, 2026</p>
 
 <p>These terms govern your use of the OfficeSwap iPhone app ("OfficeSwap", "the app", "we", "us"). By downloading or using the app, you agree to these terms and to our <a href="../privacy/">Privacy Policy</a>. If you don't agree, don't use the app.</p>
 
@@ -64,7 +64,7 @@
   <li>it doesn't include sensitive personal information, such as health details;</li>
   <li>it isn't unlawful, harassing, defamatory or misleading.</li>
 </ul>
-<p>You keep ownership of your content. You allow us to store, copy and display it only as needed to run the app, including saving it to your organization's shared Google Sheet as described in the Privacy Policy.</p>
+<p>You keep ownership of your content. You allow us to store, copy and display it only as needed to run the app, including storing it online with Firebase so your organization shares one schedule, as described in the Privacy Policy.</p>
 
 <h2>5. Acceptable use</h2>
 <p>You agree not to:</p>
@@ -80,7 +80,7 @@
 <p>OfficeSwap is a scheduling aid. Assignments depend on the information people enter and may change, for example when an owner withdraws an offer or when entries from different phones are combined. We don't guarantee that an office will be available, assigned, or free of other people when you arrive. Your organization's own workplace, facilities and security rules always come first, and your organization decides who may use which office.</p>
 
 <h2>7. Third-party services</h2>
-<p>OfficeSwap stores shared schedules in Google Sheets and is distributed through Apple's App Store. Those services are provided by Google and Apple under their own terms, and we aren't responsible for them. If a service is unavailable, the app may not sync or match correctly until it's restored.</p>
+<p>OfficeSwap stores shared schedules with Firebase, a Google service, and is distributed through Apple's App Store. Those services are provided by Google and Apple under their own terms, and we aren't responsible for them. If a service is unavailable, the app may not sync or match correctly until it's restored.</p>
 
 <h2>8. Apple App Store terms</h2>
 <p>If you got OfficeSwap from the App Store, these terms are between you and us, not Apple. Apple isn't responsible for the app or its content, and has no obligation to provide support or maintenance for it. Apple's <a href="https://www.apple.com/legal/internet-services/itunes/dev/stdeula/" rel="noopener">Licensed Application End User License Agreement</a> also applies. Where it conflicts with these terms, these terms control to the extent allowed. Apple and its subsidiaries are third-party beneficiaries of these terms and may enforce them against you.</p>

diff --git a/faq/index.html b/faq/index.html
@@ -176,7 +176,7 @@
               <span>Does everyone see the same schedule?</span>
               <svg class="chev" viewBox="0 0 16 16" fill="none" aria-hidden="true"><path d="M4 6l4 4 4-4" stroke="currentColor" stroke-width="1.6" stroke-linecap="round" stroke-linejoin="round"/></svg>
             </button>
-            <div class="accordion-a"><p>Yes. Everyone in your organization shares one schedule. Your changes are sent right away, and the app checks for other people's changes every 30 seconds and whenever you open it.</p></div>
+            <div class="accordion-a"><p>Yes. Everyone in your organization shares one schedule, and every phone updates the moment anyone makes a change.</p></div>
           </div>
           <div class="accordion">
             <button class="accordion-q" type="button" aria-expanded="false">
@@ -197,14 +197,14 @@
               <span>Who can see our schedule?</span>
               <svg class="chev" viewBox="0 0 16 16" fill="none" aria-hidden="true"><path d="M4 6l4 4 4-4" stroke="currentColor" stroke-width="1.6" stroke-linecap="round" stroke-linejoin="round"/></svg>
             </button>
-            <div class="accordion-a"><p>Anyone with your organization's access code can see and change it in the app. The schedule is also kept in a Google Sheet that <strong>anyone with its link can view</strong>. Keep both the code and the link private.</p></div>
+            <div class="accordion-a"><p>Only people with your organization's access code. They can see and change it in the app, so keep the code private.</p></div>
           </div>
           <div class="accordion">
             <button class="accordion-q" type="button" aria-expanded="false">
               <span>Can I get the data in a spreadsheet?</span>
               <svg class="chev" viewBox="0 0 16 16" fill="none" aria-hidden="true"><path d="M4 6l4 4 4-4" stroke="currentColor" stroke-width="1.6" stroke-linecap="round" stroke-linejoin="round"/></svg>
             </button>
-            <div class="accordion-a"><p>Yes. The <strong>Export</strong> tab opens the live Google Sheet, or lets you share a CSV file for Excel or Numbers.</p></div>
+            <div class="accordion-a"><p>Yes. The <strong>Export</strong> tab shares the schedule as a CSV file you can open in Excel, Numbers or Google Sheets.</p></div>
           </div>
           <div class="accordion">
             <button class="accordion-q" type="button" aria-expanded="false">
